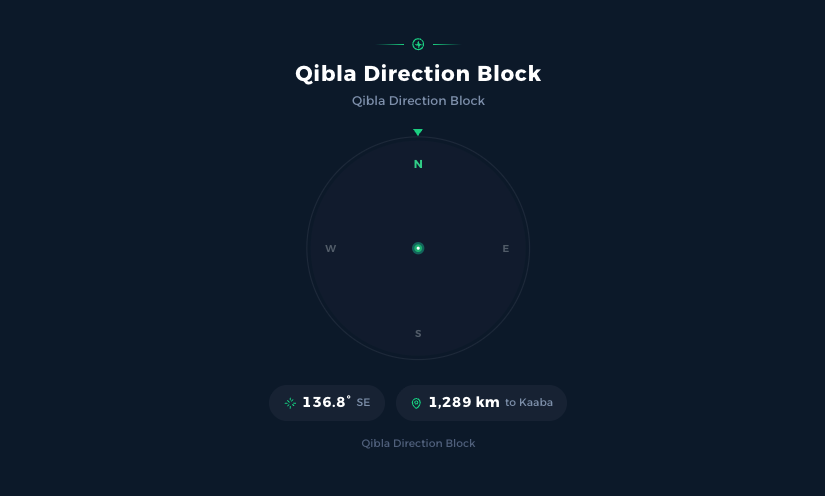
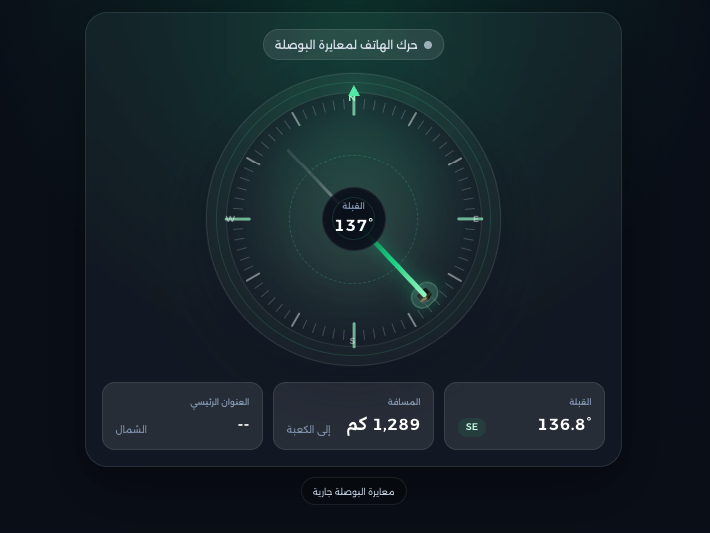
Enhance slider component layout and improve accessibility features

diff --git a/resources/views/components/blocks/slider.blade.php b/resources/views/components/blocks/slider.blade.php
@@ -4,7 +4,7 @@ $slides = \App\Models\Slider::active()->get();
 @endphp
 
 @if($slides->isNotEmpty())
-<section class="relative overflow-hidden bg-emerald-950"
+<section class="group relative overflow-hidden bg-emerald-950"
     x-data="{
         current: 0,
         total: {{ $slides->count() }},
@@ -26,7 +26,7 @@ $slides = \App\Models\Slider::active()->get();
     @mouseenter="stop()"
     @mouseleave="start()">
 
-    <div class="relative min-h-[70vh] flex items-center">
+    <div class="relative flex h-[70vh] min-h-[32rem] items-center sm:h-[75vh]">
         @foreach($slides as $index => $slide)
             <div class="absolute inset-0 transition-opacity duration-700"
                  x-show="current === {{ $index }}"
@@ -46,22 +46,22 @@ $slides = \App\Models\Slider::active()->get();
             </div>
         @endforeach
 
-        <div class="relative z-10 w-full max-w-7xl mx-auto px-6 py-20">
+        <div class="relative z-10 mx-auto flex h-full w-full max-w-7xl items-center px-6 py-20">
             @foreach($slides as $index => $slide)
                 <div x-show="current === {{ $index }}"
                      x-transition:enter="transition duration-500 delay-200"
                      x-transition:enter-start="opacity-0 translate-y-4"
                      x-transition:enter-end="opacity-100 translate-y-0"
-                     class="text-center text-white max-w-3xl mx-auto">
+                     class="mx-auto max-w-3xl text-center text-white">
 
                     @if($slide->title)
-                        <h2 class="text-4xl md:text-5xl font-bold mb-4 leading-tight">
+                        <h2 class="mb-4 line-clamp-3 text-4xl font-bold leading-tight md:text-5xl">
                             {{ $slide->title }}
                         </h2>
                     @endif
 
                     @if($slide->subtitle)
-                        <p class="text-xl text-emerald-100 leading-relaxed">
+                        <p class="line-clamp-4 text-xl leading-relaxed text-emerald-100">
                             {{ $slide->subtitle }}
                         </p>
                     @endif
@@ -79,14 +79,14 @@ $slides = \App\Models\Slider::active()->get();
 
         @if($slides->count() > 1)
             <button @click="prev()"
-                    class="absolute left-4 z-20 flex items-center justify-center w-12 h-12 rounded-full bg-black/30 hover:bg-emerald-600/80 text-white transition-all duration-200 backdrop-blur-sm border border-white/10 hover:border-emerald-500/50">
+                    class="absolute left-4 z-20 hidden h-12 w-12 items-center justify-center rounded-full border border-white/10 bg-black/30 text-white opacity-0 backdrop-blur-sm transition-all duration-200 hover:border-emerald-500/50 hover:bg-emerald-600/80 group-hover:opacity-100 lg:flex">
                 <svg class="w-5 h-5" fill="none" viewBox="0 0 24 24" stroke="currentColor" stroke-width="2">
                     <path stroke-linecap="round" stroke-linejoin="round" d="M15 19l-7-7 7-7"/>
                 </svg>
             </button>
 
             <button @click="next()"
-                    class="absolute right-4 z-20 flex items-center justify-center w-12 h-12 rounded-full bg-black/30 hover:bg-emerald-600/80 text-white transition-all duration-200 backdrop-blur-sm border border-white/10 hover:border-emerald-500/50">
+                    class="absolute right-4 z-20 hidden h-12 w-12 items-center justify-center rounded-full border border-white/10 bg-black/30 text-white opacity-0 backdrop-blur-sm transition-all duration-200 hover:border-emerald-500/50 hover:bg-emerald-600/80 group-hover:opacity-100 lg:flex">
                 <svg class="w-5 h-5" fill="none" viewBox="0 0 24 24" stroke="currentColor" stroke-width="2">
                     <path stroke-linecap="round" stroke-linejoin="round" d="M9 5l7 7-7 7"/>
                 </svg>